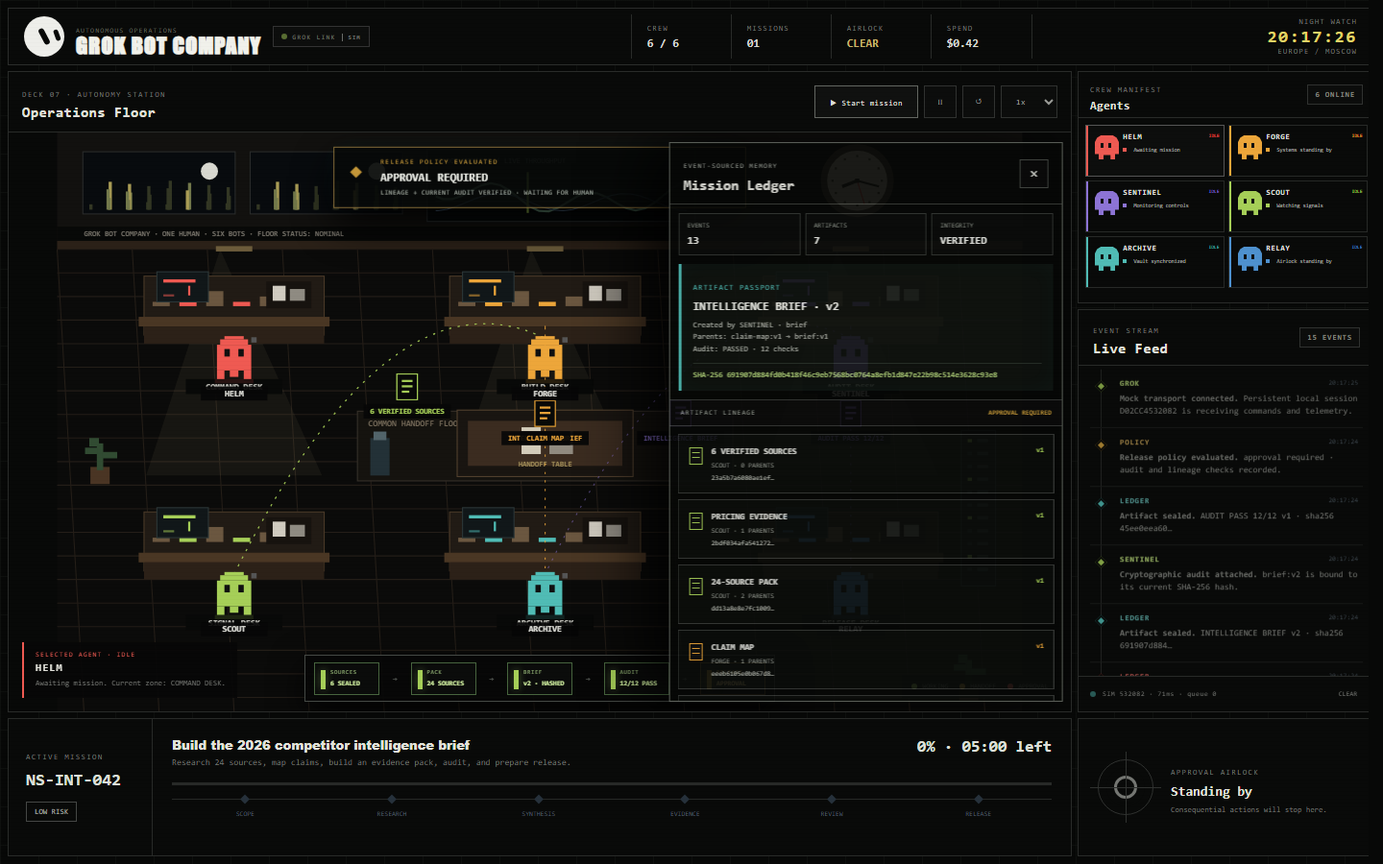
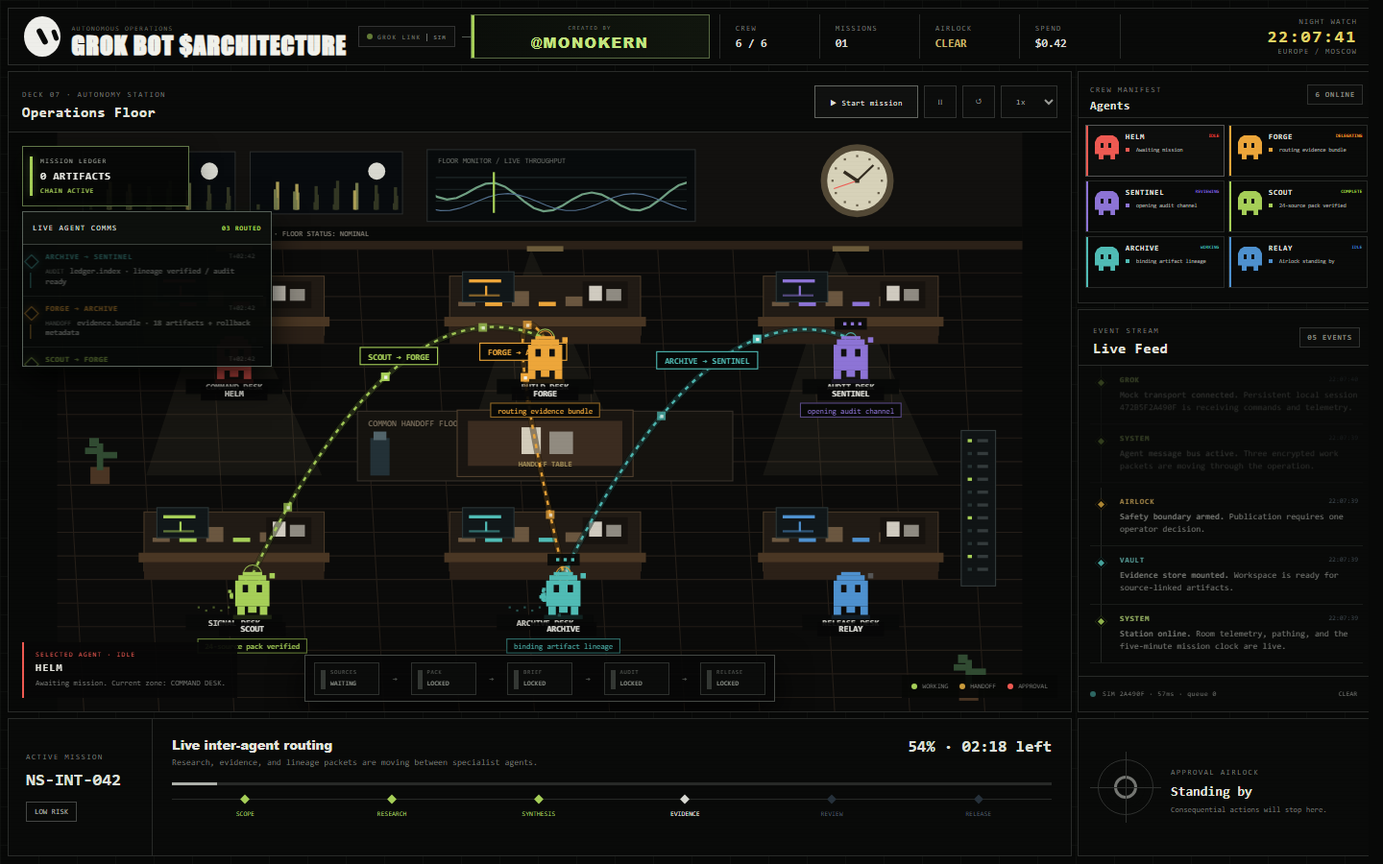
added live agent comms and creator branding

diff --git a/app.js b/app.js
@@ -3,8 +3,8 @@
 const $=s=>document.querySelector(s), canvas=$("#stationCanvas"), ctx=canvas.getContext("2d");
 const C={helm:"#ef5a52",forge:"#eda63a",sentinel:"#8d74d6",scout:"#a6cf58",archive:"#50bcb5",relay:"#4e91cf",green:"#a6cf58",amber:"#c99b3b",red:"#ef5a52",cyan:"#50bcb5",muted:"#747474"};
 const bridge=window.grokBot||null;
-const ledger=window.missionLedger||null,artifactPackets=[];
-let selectedArtifactId=null,ledgerToastTimer=null;
+const ledger=window.missionLedger||null,artifactPackets=[],commSignals=[];
+let selectedArtifactId=null,ledgerToastTimer=null,commSequence=0;
 const zones=[
  {id:"bridge",name:"COMMAND DESK",x:65,y:115,w:200,h:125,color:C.helm,type:"bridge"},
  {id:"build",name:"BUILD DESK",x:350,y:115,w:210,h:125,color:C.forge,type:"build"},
@@ -27,22 +27,22 @@ const state={running:false,paused:false,approval:false,complete:false,rejected:f
 const stages=["scope","research","synthesis","evidence","review","release"];
 const timeline=[
  {at:1000,run(){event("helm","Mission opened","NS-INT-042 received: produce a decision-ready 2026 competitor brief.","cyan");agent("helm","working","breaking down request","bridge");stage("scope",1,"Scoping the intelligence mission","Helm is defining questions, owners, evidence rules, and the release boundary.")}},
- {at:12000,run(){event("helm","Work graph created","Five workstreams, 24-source target, and one approval gate assigned.","green");agent("helm","delegating","routing research scope","core");agent("scout","working","receiving research brief","core")}},
+ {at:12000,run(){event("helm","Work graph created","Five workstreams, 24-source target, and one approval gate assigned.","green");agent("helm","delegating","routing research scope","core");agent("scout","working","receiving research brief","core");sendComm("helm","scout","scope.route · 24-source target","route")}},
  {at:28000,run(){event("scout","Discovery started","Search plan expanded across product, hiring, pricing, and customer signals.","cyan");agent("helm","idle","watching dependency graph","lounge");agent("scout","working","reading source index","monitor");stage("research",9,"Research sweep in progress","Scout is collecting first-party sources and labeling confidence.")}},
  {at:47000,run(){event("scout","Source batch verified","Six primary links passed freshness and provenance checks.","green");agent("scout","working","sourced 6 links","library");state.artifacts=2;sealArtifact({baseId:"source-batch",type:"source_set",label:"6 VERIFIED SOURCES",createdBy:"scout",payload:{count:6,provenance:"first-party",freshness:"verified"}})}},
  {at:65000,run(){event("scout","Pricing evidence captured","Three plan changes and two packaging shifts added to the source ledger.","cyan");agent("scout","working","reading pricing pages","skill");state.artifacts=4;sealArtifact({baseId:"pricing-evidence",type:"evidence",label:"PRICING EVIDENCE",createdBy:"scout",parentIds:["source-batch"],payload:{planChanges:3,packagingShifts:2}})}},
- {at:84000,run(){event("scout","Research pack ready","24 sources collected; 17 claims marked high confidence.","green");agent("scout","delegating","handing off 24 sources","core");agent("forge","working","receiving source pack","core");stage("synthesis",28,"Evidence is moving to synthesis","Scout and Forge are transferring the verified research pack.");sealArtifact({baseId:"research-pack",type:"research_pack",label:"24-SOURCE PACK",createdBy:"scout",parentIds:["source-batch","pricing-evidence"],payload:{sources:24,highConfidenceClaims:17}})}},
+ {at:84000,run(){event("scout","Research pack ready","24 sources collected; 17 claims marked high confidence.","green");agent("scout","delegating","handing off 24 sources","core");agent("forge","working","receiving source pack","core");sendComm("scout","forge","research.pack · 24 sources / 17 verified claims","handoff");stage("synthesis",28,"Evidence is moving to synthesis","Scout and Forge are transferring the verified research pack.");sealArtifact({baseId:"research-pack",type:"research_pack",label:"24-SOURCE PACK",createdBy:"scout",parentIds:["source-batch","pricing-evidence"],payload:{sources:24,highConfidenceClaims:17}})}},
  {at:103000,run(){event("forge","Claim map started","Entities, products, dates, and claims normalized into one schema.","cyan");agent("scout","complete","research pack delivered","skill");agent("forge","working","mapping 12 entities","build");sealArtifact({baseId:"claim-map",type:"claim_map",label:"CLAIM MAP",createdBy:"forge",parentIds:["research-pack"],payload:{entities:12,schema:"normalized"}})}},
  {at:124000,run(){event("forge","Contradiction detected","Two revenue claims conflict; both retained with confidence notes.","amber");agent("forge","working","resolving 2 conflicts","printer")}},
  {at:145000,run(){event("forge","Synthesis complete","Draft now contains 8 findings, 3 risks, and 5 strategic moves.","green");agent("forge","working","rendering 12-page brief","build");state.artifacts=9;sealArtifact({baseId:"brief",type:"brief",label:"INTELLIGENCE BRIEF",createdBy:"forge",parentIds:["claim-map"],payload:{pages:12,findings:8,risks:3,moves:5,revisionNote:"initial synthesis"}})}},
- {at:162000,run(){event("forge","Evidence bundle prepared","Brief, claim map, and source ledger packaged for persistence.","cyan");agent("forge","delegating","handing off evidence pack","core");agent("archive","working","receiving 18 artifacts","core");stage("evidence",54,"Evidence pack is being secured","Forge and Archive are transferring traceable mission artifacts.");sealArtifact({baseId:"evidence-bundle",type:"evidence_bundle",label:"EVIDENCE BUNDLE",createdBy:"forge",parentIds:["brief","research-pack"],payload:{artifacts:18,rollback:true}})}},
+ {at:162000,run(){event("forge","Evidence bundle prepared","Brief, claim map, and source ledger packaged for persistence.","cyan");agent("forge","delegating","handing off evidence pack","core");agent("archive","working","receiving 18 artifacts","core");sendComm("forge","archive","evidence.bundle · 18 artifacts + rollback metadata","handoff");stage("evidence",54,"Evidence pack is being secured","Forge and Archive are transferring traceable mission artifacts.");sealArtifact({baseId:"evidence-bundle",type:"evidence_bundle",label:"EVIDENCE BUNDLE",createdBy:"forge",parentIds:["brief","research-pack"],payload:{artifacts:18,rollback:true}})}},
  {at:181000,run(){event("archive","Index write started","Content hashes and citation backlinks are being generated.","cyan");agent("forge","complete","synthesis delivered","build");agent("archive","working","writing evidence index","server")}},
  {at:199000,run(){event("archive","Artifacts indexed","18 artifacts stored with source-level lineage and rollback metadata.","green");agent("archive","working","indexed 18 artifacts","vault");state.artifacts=18;sealArtifact({baseId:"evidence-index",type:"evidence_index",label:"EVIDENCE INDEX",createdBy:"archive",parentIds:["evidence-bundle"],payload:{indexed:18,lineage:"source-level",rollback:true}})}},
- {at:215000,run(){event("sentinel","Independent audit started","Citation coverage, claim support, and release rules loaded.","violet");agent("archive","idle","evidence vault synced","library");agent("sentinel","reviewing","cross-checking 24 citations","audit");stage("review",71,"Independent audit in progress","Sentinel is testing every material claim against the evidence ledger.")}},
+ {at:215000,run(){event("sentinel","Independent audit started","Citation coverage, claim support, and release rules loaded.","violet");agent("archive","idle","evidence vault synced","library");agent("sentinel","reviewing","cross-checking 24 citations","audit");sendComm("archive","sentinel","ledger.index · lineage verified / audit ready","audit");stage("review",71,"Independent audit in progress","Sentinel is testing every material claim against the evidence ledger.")}},
  {at:236000,run(){event("sentinel","Automated checks passed","12 of 12 structural and safety checks are green.","green");agent("sentinel","reviewing","running final checks","monitor");ledgerCall("auditArtifact","brief","sentinel",12)}},
  {at:252000,run(){event("sentinel","One warning resolved","A duplicate market-size claim was removed from the executive summary.","amber");agent("sentinel","reviewing","verifying corrected claim","audit");ledgerCall("reviseArtifact","brief",{revisionNote:"duplicate market-size claim removed",findings:7},"sentinel")}},
- {at:267000,run(){event("sentinel","Audit passed","All material claims have citations; no blocking issue remains.","green");agent("sentinel","complete","audit passed: 12/12","audit");agent("helm","working","assembling decision packet","core");agent("relay","working","receiving approved draft","core");stage("release",89,"Preparing the controlled release","Helm and Relay are assembling the final decision packet.");ledgerCall("auditArtifact","brief","sentinel",12);sealArtifact({baseId:"audit-receipt",type:"audit_receipt",label:"AUDIT PASS 12/12",createdBy:"sentinel",parentIds:["brief","evidence-index"],payload:{checks:12,verdict:"pass"}})}},
- {at:281000,run(){event("relay","Release packet staged","12-page brief and evidence links are ready at the approval boundary.","cyan");agent("helm","waiting approval","decision packet ready","lounge");agent("relay","waiting approval","awaiting final yes","airlock")}},
+ {at:267000,run(){event("sentinel","Audit passed","All material claims have citations; no blocking issue remains.","green");agent("sentinel","complete","audit passed: 12/12","audit");agent("helm","working","assembling decision packet","core");agent("relay","working","receiving approved draft","core");sendComm("sentinel","relay","audit.receipt · 12/12 pass / current hash","audit");stage("release",89,"Preparing the controlled release","Helm and Relay are assembling the final decision packet.");ledgerCall("auditArtifact","brief","sentinel",12);sealArtifact({baseId:"audit-receipt",type:"audit_receipt",label:"AUDIT PASS 12/12",createdBy:"sentinel",parentIds:["brief","evidence-index"],payload:{checks:12,verdict:"pass"}})}},
+ {at:281000,run(){event("relay","Release packet staged","12-page brief and evidence links are ready at the approval boundary.","cyan");agent("helm","waiting approval","decision packet ready","lounge");agent("relay","waiting approval","awaiting final yes","airlock");sendComm("relay","helm","release.packet · operator approval required","release")}},
  {at:290000,run(){event("relay","Human decision requested","Publication is paused at the Approval Airlock.","amber");stage("release",97,"Final approval required","The complete intelligence brief is waiting for one human decision.");ledgerCall("evaluatePolicy","publish","brief");requestApproval()}}
 ];
 function renderRoster(){
@@ -80,6 +80,14 @@ function event(actor,title,message,tone){
  el.innerHTML='<i></i><div><b>'+actor+'</b><time>'+time+'</time></div><p><strong>'+title+'.</strong> '+message+'</p>';
  $("#eventFeed").prepend(el);state.count++;$("#eventCount").textContent=String(state.count).padStart(2,"0")+" EVENTS";
  if(bridge)bridge.recordEvent({missionId:"NS-INT-042",actor,title,message,tone});
+}
+function resetComms(){
+ commSignals.length=0;commSequence=0;const items=$("#commItems");if(items)items.innerHTML='<article class="comm-empty"><i></i><p>Encrypted handoff channels standing by.</p></article>';if($("#commBus"))$("#commBus").textContent="BUS READY";
+}
+function sendComm(fromId,toId,message,channel="handoff",duration=11000){
+ const from=agents.find(a=>a.id===fromId),to=agents.find(a=>a.id===toId);if(!from||!to)return;
+ const signal={id:++commSequence,fromId,toId,message,channel,color:from.color,born:performance.now(),duration};commSignals.push(signal);if(commSignals.length>8)commSignals.shift();
+ const items=$("#commItems"),row=document.createElement("article"),stamp="T+"+formatDuration(state.elapsed);row.className="comm-message";row.style.setProperty("--comm",from.color);row.innerHTML='<div><strong>'+escapeHtml(from.name.toUpperCase()+" → "+to.name.toUpperCase())+'</strong><time>'+stamp+'</time></div><p><em>'+escapeHtml(channel)+'</em>'+escapeHtml(message)+'</p>';if(items.querySelector(".comm-empty"))items.innerHTML="";items.prepend(row);while(items.children.length>3)items.lastElementChild.remove();$("#commBus").textContent=String(commSequence).padStart(2,"0")+" ROUTED";burst(from.x,from.y,from.color,10);burst(to.x,to.y,to.color,6);
 }
 function ledgerCall(method,...args){if(!ledger||typeof ledger[method]!=="function")return Promise.resolve(null);return ledger[method](...args).catch(error=>{event("ledger","Ledger warning",error.message,"red");return null})}
 function sealArtifact(spec){return ledgerCall("createArtifact",spec)}
@@ -161,8 +169,8 @@ function resolve(ok){
 }
 function start(){
  if(state.complete||state.rejected||state.cursor>=timeline.length)reset(false);if(state.approval)return;
- if(state.elapsed===0){artifactPackets.length=0;selectedArtifactId=null;ledgerCall("startMission","NS-INT-042")}
- state.running=true;state.paused=false;$("#startBtn").textContent="● Mission running";event("system","System started","Grok Bot Company event loop is active.","cyan");
+ if(state.elapsed===0){artifactPackets.length=0;selectedArtifactId=null;resetComms();ledgerCall("startMission","NS-INT-042")}
+ state.running=true;state.paused=false;$("#startBtn").textContent="● Mission running";event("system","System started","Grok Bot $Architecture event loop is active.","cyan");
  if(bridge)bridge.startMission({id:"NS-INT-042",objective:"Build the 2026 competitor intelligence brief",agents:agents.map(a=>a.id)}).then(ack=>event("grok","Command acknowledged","mission.start accepted as #"+ack.sequence+" in "+ack.latency+"ms.","green")).catch(()=>event("grok","Transport warning","Mission continues locally; command acknowledgement was not received.","amber"));
 }
 function pause(){
@@ -170,7 +178,7 @@ function pause(){
  if(bridge)bridge.setMissionState(state.paused?"paused":"running");
 }
 function reset(announce=true){
- state.running=false;state.paused=false;state.approval=false;state.complete=false;state.rejected=false;state.elapsed=0;state.cursor=0;state.artifacts=0;state.spend=.42;agents=initial.map(a=>({...a}));
+ state.running=false;state.paused=false;state.approval=false;state.complete=false;state.rejected=false;state.elapsed=0;state.cursor=0;state.artifacts=0;state.spend=.42;agents=initial.map(a=>({...a}));resetComms();
  $("#approvalIdle").hidden=false;$("#approvalRequest").hidden=true;$("#airlockMetric").textContent="CLEAR";$("#airlockMetric").style.color="";$("#spendMetric").textContent="$0.42";$("#riskBadge").textContent="LOW RISK";$("#riskBadge").style.color="";$("#startBtn").textContent="▶ Start mission";$("#pauseBtn").textContent="Ⅱ";
  stage(null,0,"Build the 2026 competitor intelligence brief","Research 24 sources, map claims, build an evidence pack, audit, and prepare release.");document.querySelectorAll("#stages span").forEach(n=>n.classList.remove("active","done"));renderRoster();select("helm");if(announce)event("system","Mission reset","All agents returned to their stations; the five-minute clock is ready.","amber");
  if(bridge&&announce)bridge.resetMission();
@@ -211,7 +219,7 @@ function room(){
  ctx.fillStyle="#12110f";ctx.fillRect(0,0,900,108);ctx.fillStyle="#2b2118";ctx.fillRect(0,101,900,8);
  ctx.strokeStyle="#241e18";ctx.lineWidth=1;for(let y=109;y<540;y+=22){ctx.beginPath();ctx.moveTo(0,y);ctx.lineTo(900,y);ctx.stroke()}for(let x=0;x<900;x+=70){ctx.beginPath();ctx.moveTo(x,109);ctx.lineTo(x+25,540);ctx.stroke()}
  drawWindow(24,18,142,58);drawWindow(180,18,142,58);drawWallMonitor(345,16,250,67);drawClock(746,45);
- ctx.fillStyle="#080908";ctx.fillRect(0,88,900,13);ctx.fillStyle="#77736a";ctx.font="bold 7px monospace";ctx.fillText("GROK BOT COMPANY · ONE HUMAN · SIX BOTS · FLOOR STATUS: NOMINAL",25,97);
+ ctx.fillStyle="#080908";ctx.fillRect(0,88,900,13);ctx.fillStyle="#77736a";ctx.font="bold 7px monospace";ctx.fillText("GROK BOT $ARCHITECTURE · ONE HUMAN · SIX BOTS · FLOOR STATUS: NOMINAL",25,97);
  [165,455,740].forEach(x=>{ctx.fillStyle="#d7c28b10";ctx.beginPath();ctx.moveTo(x-13,109);ctx.lineTo(x-82,320);ctx.lineTo(x+82,320);ctx.closePath();ctx.fill();ctx.fillStyle="#6c5c3b";ctx.fillRect(x-17,106,34,5)});
  ctx.fillStyle="#15130f";ctx.fillRect(280,260,350,65);ctx.strokeStyle="#37312a";ctx.strokeRect(280,260,350,65);
  ctx.fillStyle="#746958";ctx.font="bold 8px monospace";ctx.fillText("COMMON HANDOFF FLOOR",290,274);
@@ -252,6 +260,16 @@ function drawAgent(a){
  ctx.textAlign="left";
 }
 function particles(){state.particles.forEach(p=>{ctx.globalAlpha=Math.max(0,p.life);ctx.fillStyle=p.color;ctx.fillRect(p.x,p.y,3,3);p.x+=p.dx;p.y+=p.dy;p.life-=.025});ctx.globalAlpha=1;state.particles=state.particles.filter(p=>p.life>0)}
+function drawCommSignals(){
+ const now=performance.now(),quad=(a,b,c,t)=>(1-t)*(1-t)*a+2*(1-t)*t*b+t*t*c;
+ for(let i=commSignals.length-1;i>=0;i--){const signal=commSignals[i],age=(now-signal.born)/signal.duration;if(age>=1){commSignals.splice(i,1);continue}const from=agents.find(a=>a.id===signal.fromId),to=agents.find(a=>a.id===signal.toId);if(!from||!to)continue;
+  const x1=from.x,y1=from.y-18,x2=to.x,y2=to.y-18,vertical=Math.abs(x2-x1)<120,cx=(x1+x2)/2+(vertical?(signal.id%2?58:-58):0),cy=Math.max(62,Math.min(y1,y2)-52-signal.id%3*8),alpha=Math.min(1,age/.08,Math.max(0,(1-age)/.18));
+  ctx.globalAlpha=alpha*.42;ctx.strokeStyle="#000";ctx.lineWidth=6;ctx.beginPath();ctx.moveTo(x1,y1);ctx.quadraticCurveTo(cx,cy,x2,y2);ctx.stroke();ctx.globalAlpha=alpha*.18;ctx.strokeStyle=signal.color;ctx.lineWidth=5;ctx.beginPath();ctx.moveTo(x1,y1);ctx.quadraticCurveTo(cx,cy,x2,y2);ctx.stroke();ctx.globalAlpha=alpha*.95;ctx.lineWidth=2.2;ctx.setLineDash([4,5]);ctx.beginPath();ctx.moveTo(x1,y1);ctx.quadraticCurveTo(cx,cy,x2,y2);ctx.stroke();ctx.setLineDash([]);
+  for(let p=0;p<3;p++){const u=(now/1850+p/3+signal.id*.11)%1,px=quad(x1,cx,x2,u),py=quad(y1,cy,y2,u);ctx.globalAlpha=alpha*(p?0.72:1);ctx.fillStyle=signal.color;ctx.fillRect(px-4,py-4,8,8);ctx.fillStyle="#f0f1eb";ctx.fillRect(px-1,py-1,3,3)}
+  const pulse=7+Math.sin(now/180+signal.id)*2;ctx.globalAlpha=alpha*.85;ctx.strokeStyle=signal.color;ctx.lineWidth=1;ctx.beginPath();ctx.arc(x1,y1,pulse,0,Math.PI*2);ctx.stroke();ctx.beginPath();ctx.arc(x2,y2,pulse,0,Math.PI*2);ctx.stroke();
+  const lx=quad(x1,cx,x2,.5),ly=quad(y1,cy,y2,.5)-7,label=(from.name+" → "+to.name).toUpperCase();ctx.font="bold 8px monospace";const width=Math.min(124,ctx.measureText(label).width+16);ctx.globalAlpha=alpha;ctx.fillStyle="#070807f4";ctx.fillRect(lx-width/2,ly-10,width,17);ctx.strokeStyle=signal.color;ctx.strokeRect(lx-width/2+.5,ly-9.5,width-1,16);ctx.fillStyle=signal.color;ctx.textAlign="center";ctx.fillText(label,lx,ly+2);ctx.textAlign="left";ctx.globalAlpha=1;
+ }
+}
 function drawArtifactPackets(){
  const now=performance.now();
  for(let i=artifactPackets.length-1;i>=0;i--){const packet=artifactPackets[i],t=Math.min(1,(now-packet.born)/packet.duration),ease=t<.5?2*t*t:1-Math.pow(-2*t+2,2)/2,x=packet.x1+(packet.x2-packet.x1)*ease,y=packet.y1+(packet.y2-packet.y1)*ease-Math.sin(t*Math.PI)*52,alpha=t>.82?(1-t)/.18:1;
@@ -270,7 +288,7 @@ function interactions(){
  agents.forEach(a=>{if(a.state==="working"||a.state==="reviewing"){ctx.fillStyle="#080908e8";ctx.fillRect(a.x-15,a.y-37,30,11);ctx.fillStyle=a.color;for(let i=0;i<3;i++)ctx.fillRect(a.x-7+i*7,a.y-33,3,3)}});
  for(let i=0;i<agents.length;i++)for(let j=i+1;j<agents.length;j++){const a=agents[i],b=agents[j],d=Math.hypot(a.x-b.x,a.y-b.y);if(d<122&&(a.zone==="core"||b.zone==="core")){const x=(a.x+b.x)/2,y=Math.min(a.y,b.y)-43,t=(performance.now()/1100)%1,px=a.x+(b.x-a.x)*t,py=a.y-15+(b.y-a.y)*t;ctx.strokeStyle="#8b8069";ctx.setLineDash([2,4]);ctx.beginPath();ctx.moveTo(a.x,a.y-15);ctx.lineTo(b.x,b.y-15);ctx.stroke();ctx.setLineDash([]);ctx.fillStyle="#e0cf8a";ctx.fillRect(px-3,py-3,6,6);ctx.fillStyle="#080908";ctx.fillRect(x-31,y,62,13);ctx.fillStyle="#d2c598";ctx.font="bold 7px monospace";ctx.textAlign="center";ctx.fillText("LIVE HANDOFF",x,y+9);ctx.textAlign="left"}}
 }
-function draw(){const w=canvas.clientWidth,h=canvas.clientHeight;ctx.clearRect(0,0,w,h);const t=transform();ctx.save();ctx.translate(t.ox,t.oy);ctx.scale(t.s,t.s);room();furniture();particles();drawArtifactPackets();agents.forEach(drawAgent);interactions();ctx.restore()}
+function draw(){const w=canvas.clientWidth,h=canvas.clientHeight;ctx.clearRect(0,0,w,h);const t=transform();ctx.save();ctx.translate(t.ox,t.oy);ctx.scale(t.s,t.s);room();furniture();particles();drawCommSignals();drawArtifactPackets();agents.forEach(drawAgent);interactions();ctx.restore()}
 function tick(now){const dt=Math.min(40,now-state.last);state.last=now;if(state.running&&!state.approval){state.elapsed=Math.min(state.duration,state.elapsed+dt*state.speed);while(state.cursor<timeline.length&&state.elapsed>=timeline[state.cursor].at)timeline[state.cursor++].run();if(!state.approval){const progress=Math.min(96,Math.floor(state.elapsed/state.duration*100));$("#progressBar").style.width=progress+"%";$("#progressLabel").textContent=progress+"% · "+formatDuration(state.duration-state.elapsed)+" left"}state.spend=Math.min(4.07,.42+state.elapsed/1000*.0122);$("#spendMetric").textContent="$"+state.spend.toFixed(2)}ambient(now);move(dt);draw();requestAnimationFrame(tick)}
 function canvasClick(e){const r=canvas.getBoundingClientRect(),t=transform(),x=(e.clientX-r.left-t.ox)/t.s,y=(e.clientY-r.top-t.oy)/t.s,a=agents.find(q=>Math.hypot(q.x-x,q.y-y)<30);if(a)return select(a.id);const z=zones.find(q=>x>=q.x&&x<=q.x+q.w&&y>=q.y&&y<=q.y+q.h);if(z){const box=$("#selection"),crew=agents.filter(a=>a.zone===z.id).length;box.querySelector("span").textContent="STATION ZONE";box.querySelector("b").textContent=z.name;box.querySelector("p").textContent=crew+" crew assigned · "+z.type.toUpperCase()+" subsystem online.";box.style.borderColor=z.color;box.querySelector("span").style.color=z.color}}
 function clock(){$("#clock").textContent=new Intl.DateTimeFormat("en-GB",{timeZone:"Europe/Moscow",hour:"2-digit",minute:"2-digit",second:"2-digit",hour12:false}).format(new Date())}
@@ -299,6 +317,7 @@ event("system","Station online","Room telemetry, pathing, and the five-minute mi
 clock();setInterval(clock,1000);requestAnimationFrame(tick);
 const autoplay=new URLSearchParams(location.search).get("autoplay");
 if(autoplay==="ledger")setTimeout(ledgerShowcase,250);
+else if(autoplay==="comms")setTimeout(()=>{state.elapsed=162000;agent("scout","complete","24-source pack verified","skill");agent("forge","delegating","routing evidence bundle","build");agent("archive","working","binding artifact lineage","vault");agent("sentinel","reviewing","opening audit channel","audit");sendComm("scout","forge","research.pack · 24 sources / 17 verified claims","handoff",16000);sendComm("forge","archive","evidence.bundle · 18 artifacts + rollback metadata","handoff",16000);sendComm("archive","sentinel","ledger.index · lineage verified / audit ready","audit",16000);event("system","Agent message bus active","Three encrypted work packets are moving through the operation.","green");stage("evidence",54,"Live inter-agent routing","Research, evidence, and lineage packets are moving between specialist agents.")},250);
 else if(autoplay==="handoff")setTimeout(()=>{state.elapsed=84000;agent("scout","delegating","handing off 24 sources","core");agent("forge","working","receiving source pack","core");const scout=agents.find(x=>x.id==="scout"),forge=agents.find(x=>x.id==="forge");Object.assign(scout,{x:510,y:300,tx:510,ty:300,path:[]});Object.assign(forge,{x:400,y:292,tx:400,ty:292,path:[]});event("scout","Live handoff","Scout and Forge are transferring the verified source pack.","amber");stage("synthesis",28,"Live evidence handoff","Two agents are exchanging 24 verified sources at the common table.")},250);
 else if(autoplay==="approval")setTimeout(()=>{state.elapsed=290000;event("relay","Human decision requested","The audited brief is paused at the release boundary.","amber");agent("sentinel","complete","audit passed: 12/12","audit");agent("relay","waiting approval","awaiting final yes","airlock");agent("helm","waiting approval","decision packet ready","lounge");stage("release",97,"Final approval required","The complete intelligence brief is waiting for one human decision.");requestApproval()},250);
 else if(autoplay){state.speed=50;$("#speed").value="10";setTimeout(start,250)}

diff --git a/theme-muted.css b/theme-muted.css
@@ -1,8 +1,9 @@
 :root{--bg:#070807;--panel:#0a0b0a;--line:#282a28;--text:#e3e3dc;--muted:#71736f;--cyan:#50bcb5;--green:#a6cf58;--amber:#c99b3b;--orange:#eda63a;--red:#ef5a52;--violet:#8d74d6}
 body{background-color:#070807;background-image:linear-gradient(#15171588 1px,transparent 1px),linear-gradient(90deg,#15171588 1px,transparent 1px);background-size:40px 40px}
 .scanlines{opacity:.055;mix-blend-mode:normal}.app{padding:8px}
-.topbar{min-height:60px;border-color:#2b2d2b;background:#090a09;box-shadow:none;clip-path:none}
-.brand{gap:12px;padding:7px 16px}.brand h1{font-family:Impact,"Arial Black",sans-serif;font-size:22px;letter-spacing:.055em;color:#f1f1eb;line-height:.9}.brand span{color:#60635f;font-size:7px}
+.topbar{min-height:60px;grid-template-columns:minmax(480px,1fr) clamp(210px,18vw,260px) auto minmax(180px,.55fr);border-color:#2b2d2b;background:#090a09;box-shadow:none;clip-path:none}
+.brand{gap:12px;padding:7px 16px}.brand h1{font-family:Impact,"Arial Black",sans-serif;font-size:25px;letter-spacing:.045em;color:#f1f1eb;line-height:.9;white-space:nowrap}.brand span{color:#60635f;font-size:7px}
+.creator-tag{position:relative;align-self:stretch;min-width:0;margin:6px 10px 6px 0;border:1px solid #596b43;background:linear-gradient(90deg,#0b0e0a,#11160e);color:#c4e681;display:flex;flex-direction:column;align-items:center;justify-content:center;text-decoration:none;white-space:nowrap;transition:.18s;box-shadow:inset 3px 0 #a6cf58}.creator-tag:before{content:"";position:absolute;left:-10px;top:50%;width:9px;height:1px;background:#555b54}.creator-tag small{color:#747c70;font-size:6px;letter-spacing:.2em}.creator-tag strong{margin-top:4px;font-family:"Arial Black","Cascadia Mono",monospace;font-size:15px;line-height:1;letter-spacing:.09em}.creator-tag:hover{border-color:#8cac5d;background:#151c11;color:#e3f7b8;box-shadow:inset 4px 0 #b7e46b,0 0 20px #a6cf5814}
 .brand-mark{width:42px;height:42px;border:0;border-radius:50%;transform:none;background:#eeeeea;box-shadow:none}.brand-mark i{position:relative;width:6px;height:18px;border-radius:4px;background:#080908;box-shadow:none;transform:rotate(-28deg)}.brand-mark i:after{content:"";position:absolute;left:13px;top:8px;width:5px;height:12px;border-radius:4px;background:#080908;transform:rotate(8deg)}
 .live{border-color:#333;color:#b9bbb6;background:#0d0e0d}.live i{background:#ef5a52;box-shadow:none}.metrics{border-color:#292b29}.metrics>div{border-color:#292b29}.metrics b{color:#d9dad5}.metrics>div:nth-child(3) b{color:#c9b76c}.clock b{color:#e2d467}
 .grid{margin-top:6px;gap:6px;grid-template-columns:246px minmax(550px,1fr) 304px}.panel{border-color:#292b29;background:#090a09f7;box-shadow:none}.panel:after{display:none}.panel-head,.station-head{border-color:#292b29}.panel-head>b{border-color:#303230;color:#82847f;background:#0c0d0c}
@@ -28,7 +29,8 @@ dialog{border-color:#333;background:#0a0b0a;box-shadow:none}
  .roster .agent-head b{font-size:8px}.roster .agent-head span{font-size:5px}.roster .agent-role{display:none}.roster .agent-task{margin-top:6px;font-size:5.5px;white-space:nowrap;overflow:hidden;text-overflow:ellipsis}
  .station-head{min-height:58px}.panel-head{height:58px}.canvas-wrap{min-height:560px}
 }
-@media(min-width:901px) and (max-width:1180px){.grid{grid-template-columns:minmax(650px,1fr) 275px}.metrics{display:none}}
+@media(min-width:901px) and (max-width:1180px){.topbar{grid-template-columns:minmax(430px,1fr) minmax(190px,240px) auto}.grid{grid-template-columns:minmax(650px,1fr) 275px}.metrics{display:none}}
+@media(min-width:1181px) and (max-width:1350px){.topbar{grid-template-columns:minmax(440px,1fr) 160px auto minmax(160px,.4fr)}.creator-tag strong{font-size:12px}.creator-tag small{font-size:5px}}
 
 /* VIEWPORT-LOCKED RESPONSIVE SHELL */
 @media(min-width:901px){
@@ -42,7 +44,7 @@ dialog{border-color:#333;background:#0a0b0a;box-shadow:none}
  .controls .primary{width:108px;padding-inline:7px;white-space:nowrap}
 }
 @media(min-width:901px) and (max-height:820px){
- .topbar{flex-basis:52px;height:52px;min-height:52px}.brand-mark{width:36px;height:36px}.brand h1{font-size:18px}.clock b{font-size:15px}
+ .topbar{flex-basis:52px;height:52px;min-height:52px}.brand-mark{width:36px;height:36px}.brand h1{font-size:20px}.clock b{font-size:15px}
  .grid{grid-template-rows:158px minmax(0,1fr) 112px}
  .roster .agent-list{grid-template-columns:repeat(3,minmax(0,1fr));grid-template-rows:repeat(2,44px);gap:3px;padding:5px}
  .roster .agent-card{min-height:44px;padding:6px 4px 4px 33px}.roster .avatar{left:6px;top:10px;width:20px;height:22px}.roster .avatar:after{left:5px;top:7px;width:3px;height:5px;box-shadow:7px 0 #101110}
@@ -56,12 +58,15 @@ dialog{border-color:#333;background:#0a0b0a;box-shadow:none}
  .grid{width:100%;min-height:0}
  #stationCanvas{max-width:100%}
 }
+@media(max-width:780px){.topbar{grid-template-columns:minmax(0,1fr) 150px}.creator-tag{margin:5px 6px 5px 0}.creator-tag strong{font-size:11px}}
+@media(max-width:600px){.topbar{grid-template-columns:minmax(0,1fr) 96px}.brand{gap:7px;padding-inline:7px}.brand-mark{width:30px;height:30px}.brand h1{font-size:15px;letter-spacing:.02em}.brand span{font-size:5px}.creator-tag{margin:5px 5px 5px 0}.creator-tag small{font-size:4px}.creator-tag strong{margin-top:3px;font-size:8px}.brand .live{display:none}}
 
 /* GROK BOT TRANSPORT */
 .live{white-space:nowrap}.live[data-mode=mock]:after{content:"SIM";margin-left:6px;padding-left:6px;border-left:1px solid currentColor;font-size:6px;opacity:.55}.live.online i{background:var(--green)}.live.connecting i{background:var(--amber)}.live.offline{color:var(--red)}.live.offline i{background:var(--red)}
 .feed-foot span{min-width:0}.feed-foot span i{flex:0 0 auto}.feed-foot span em{overflow:hidden;text-overflow:ellipsis;white-space:nowrap;font-style:normal}
 
 /* MISSION LEDGER */
+.comm-panel{position:absolute;z-index:4;left:14px;top:82px;width:260px;overflow:hidden;border:1px solid #59635b;background:#070908f5;box-shadow:0 15px 34px #000d,0 0 22px #77ef9a0a}.comm-panel header{height:34px;padding:0 10px;border-bottom:1px solid #3a403b;background:#0d100d;display:flex;align-items:center;justify-content:space-between}.comm-panel header span{color:#d0d4cd;font-size:8px;letter-spacing:.14em}.comm-panel header b{color:var(--green);font-size:7px;letter-spacing:.1em}.comm-items{max-height:126px;overflow:hidden}.comm-empty{height:46px;padding:9px 10px;display:flex;align-items:center;gap:9px;color:#8e958c}.comm-empty i{width:7px;height:7px;background:#697169;transform:rotate(45deg)}.comm-empty p{font-size:8px;line-height:1.35}.comm-message{position:relative;min-height:53px;padding:8px 9px 8px 31px;border-bottom:1px solid #303630;background:#0a0d0a;animation:commIn .28s ease-out}.comm-message:before{content:"";position:absolute;left:11px;top:12px;width:9px;height:9px;border:1px solid var(--comm);background:#0b0d0b;transform:rotate(45deg);box-shadow:0 0 9px color-mix(in srgb,var(--comm) 35%,transparent)}.comm-message:after{content:"";position:absolute;left:15px;top:29px;bottom:8px;width:1px;background:var(--comm)}.comm-message div{display:flex;justify-content:space-between;gap:8px}.comm-message strong{color:var(--comm);font-size:8px;letter-spacing:.08em}.comm-message time{color:#838981;font-size:7px}.comm-message p{margin-top:6px;color:#d0d3cd;font-size:8px;line-height:1.35}.comm-message em{display:inline-block;margin-right:6px;color:#949b92;font-size:7px;font-style:normal;text-transform:uppercase}
 .ledger-mini{position:absolute;z-index:4;left:14px;top:14px;width:174px;padding:11px 12px 11px 18px;border:1px solid #63794a;background:#070807f2;color:#e8e9e3;text-align:left;cursor:pointer;box-shadow:0 12px 30px #000b,0 0 18px #a6d86b0b}.ledger-mini:before{content:"";position:absolute;left:7px;top:10px;bottom:10px;width:3px;background:var(--green);box-shadow:0 0 9px #a6d86b66}.ledger-mini span,.ledger-mini b,.ledger-mini em{display:block}.ledger-mini span{color:#9a9f96;font-size:7px;letter-spacing:.16em}.ledger-mini b{margin-top:5px;font-size:11px;letter-spacing:.06em}.ledger-mini em{margin-top:5px;color:var(--green);font-size:7px;font-style:normal;letter-spacing:.12em}.ledger-mini.stale{border-color:#80652d}.ledger-mini.stale:before{background:var(--amber)}.ledger-mini.stale em{color:var(--amber)}.ledger-mini.compromised{border-color:#793b3b}.ledger-mini.compromised:before{background:var(--red)}.ledger-mini.compromised em{color:var(--red)}
 .ledger-drawer{position:absolute;z-index:8;inset:10px 10px 10px auto;width:min(410px,calc(100% - 20px));overflow:hidden;border:1px solid #626760;background:#070807;box-shadow:-24px 0 64px #000e,0 0 0 1px #a8c86a0b inset;animation:ledgerIn .22s ease-out}.ledger-drawer header{height:64px;padding:11px 14px;border-bottom:1px solid #3b3e3a;display:flex;align-items:center;justify-content:space-between}.ledger-drawer header span,.ledger-section-title span{color:#959a92;font-size:7px;letter-spacing:.15em}.ledger-drawer header h2{margin-top:5px;font-size:15px}.ledger-drawer header button{width:30px;height:30px;border:1px solid #454944;background:#0b0c0b;color:#d2d4ce;cursor:pointer}
 .ledger-summary{display:grid;grid-template-columns:repeat(3,1fr);gap:5px;padding:9px}.ledger-summary span{padding:8px;border:1px solid #343734;background:#0b0d0b;color:#858a82;font-size:7px}.ledger-summary b{display:block;margin-top:5px;color:#f0f1ec;font-size:11px}.ledger-detail{margin:0 9px 9px;padding:12px;border-left:3px solid var(--cyan);background:#101310;box-shadow:0 0 22px #4ee7e208 inset}.ledger-detail span{color:var(--cyan);font-size:8px;letter-spacing:.12em}.ledger-detail b{display:block;margin-top:6px;color:#f2f3ee;font-size:12px}.ledger-detail p{margin-top:7px;color:#afb3ab;font-size:8px;line-height:1.55}.ledger-detail code{display:block;margin-top:8px;padding-top:7px;border-top:1px solid #29312a;color:#b9dc80;font-size:8px;word-break:break-all}.ledger-section-title{padding:9px 11px;border-block:1px solid #363936;background:#0b0c0b;display:flex;justify-content:space-between}.ledger-section-title b{color:#949991;font-size:7px}.ledger-section-title b.pass{color:var(--green)}.ledger-section-title b.blocked{color:var(--red)}.ledger-section-title b.waiting{color:var(--amber)}
@@ -70,7 +75,7 @@ dialog{border-color:#333;background:#0a0b0a;box-shadow:none}
 .artifact-flow{position:absolute;z-index:4;left:50%;bottom:10px;transform:translateX(-50%);min-width:490px;height:49px;padding:6px 9px;border:1px solid #454945;background:#070807ed;box-shadow:0 12px 35px #000c;display:flex;align-items:center;justify-content:space-between;pointer-events:none}.artifact-flow>span{position:relative;min-width:68px;height:34px;padding:5px 5px 4px 16px;border:1px solid #2e312e;background:#0b0c0b;color:#626661}.artifact-flow>span i{position:absolute;left:6px;top:7px;width:5px;height:20px;background:#343834}.artifact-flow>span small,.artifact-flow>span b{display:block}.artifact-flow>span small{font-size:6px;letter-spacing:.11em}.artifact-flow>span b{margin-top:4px;color:#858a82;font-size:7px}.artifact-flow>em{color:#565a55;font-size:9px;font-style:normal}.artifact-flow>span.done{border-color:#47643e;color:#8fae72}.artifact-flow>span.done i{background:var(--green);box-shadow:0 0 9px #a6d86b66}.artifact-flow>span.done b{color:#c8e69a}.artifact-flow>span.active{border-color:#536d70;color:#72bbb5;animation:flowPulse 1.35s steps(2,end) infinite}.artifact-flow>span.active i{background:var(--cyan);box-shadow:0 0 11px #4ee7e288}.artifact-flow>span.active b{color:#a8e2dc}.artifact-flow>span.stale{border-color:#8a4040;color:#d26969}.artifact-flow>span.stale i{background:var(--red);box-shadow:0 0 11px #e55b5b88}.artifact-flow>span.stale b{color:#f08282}.artifact-flow>span.waiting{border-color:#86692f;color:#d8ad53}.artifact-flow>span.waiting i{background:var(--amber);box-shadow:0 0 11px #e4b65088}.artifact-flow>span.waiting b{color:#f0cd82}
 .ledger-toast{position:absolute;z-index:7;left:50%;top:15px;transform:translateX(-50%);width:min(430px,calc(100% - 360px));min-width:345px;padding:11px 14px 11px 48px;border:1px solid #58766e;background:#080b0af2;box-shadow:0 16px 45px #000e,0 0 24px #4ee7e212;animation:ledgerToastIn .28s cubic-bezier(.18,.9,.2,1)}.ledger-toast:before{content:"◆";position:absolute;left:15px;top:15px;color:var(--cyan);font-size:18px}.ledger-toast span,.ledger-toast b,.ledger-toast em{display:block}.ledger-toast span{color:var(--cyan);font-size:7px;letter-spacing:.18em}.ledger-toast b{margin-top:5px;color:#f2f4ed;font-size:12px}.ledger-toast em{margin-top:5px;color:#9ca49b;font-size:7px;font-style:normal;letter-spacing:.06em}.ledger-toast.stale{border-color:#884747;box-shadow:0 16px 45px #000e,0 0 28px #e55b5b18}.ledger-toast.stale:before,.ledger-toast.stale span{color:var(--red)}.ledger-toast.pass{border-color:#66844a;box-shadow:0 16px 45px #000e,0 0 28px #a6d86b18}.ledger-toast.pass:before,.ledger-toast.pass span{color:var(--green)}.ledger-toast.waiting{border-color:#876d39}.ledger-toast.waiting:before,.ledger-toast.waiting span{color:var(--amber)}
 @keyframes ledgerIn{from{opacity:0;transform:translateX(18px)}}
-@keyframes ledgerToastIn{from{opacity:0;transform:translate(-50%,-14px) scale(.96)}}@keyframes flowPulse{50%{filter:brightness(1.35)}}
-@media(max-width:1180px){.artifact-flow{min-width:400px}.artifact-flow>span{min-width:55px;padding-left:13px}.artifact-flow>span i{left:5px}.artifact-flow>span small{display:none}.ledger-toast{width:min(390px,calc(100% - 300px))}}
-@media(max-width:900px){.artifact-flow{display:none}.ledger-toast{left:auto;right:8px;top:8px;transform:none;width:min(360px,calc(100% - 155px));min-width:0}.ledger-toast[hidden]{display:none}@keyframes ledgerToastIn{from{opacity:0;transform:translateY(-12px) scale(.96)}}}
-@media(max-width:780px){.ledger-mini{left:8px;top:8px;width:132px}.ledger-drawer{inset:6px;width:calc(100% - 12px)}.ledger-toast{display:none}}
+@keyframes ledgerToastIn{from{opacity:0;transform:translate(-50%,-14px) scale(.96)}}@keyframes flowPulse{50%{filter:brightness(1.35)}}@keyframes commIn{from{opacity:0;transform:translateX(-12px)}}
+@media(max-width:1180px){.comm-panel{width:225px}.artifact-flow{min-width:400px}.artifact-flow>span{min-width:55px;padding-left:13px}.artifact-flow>span i{left:5px}.artifact-flow>span small{display:none}.ledger-toast{width:min(390px,calc(100% - 300px))}}
+@media(max-width:900px){.comm-panel{left:8px;top:76px;width:200px}.artifact-flow{display:none}.ledger-toast{left:auto;right:8px;top:8px;transform:none;width:min(360px,calc(100% - 155px));min-width:0}.ledger-toast[hidden]{display:none}@keyframes ledgerToastIn{from{opacity:0;transform:translateY(-12px) scale(.96)}}}
+@media(max-width:780px){.comm-panel{display:none}.ledger-mini{left:8px;top:8px;width:132px}.ledger-drawer{inset:6px;width:calc(100% - 12px)}.ledger-toast{display:none}}

diff --git a/index.html b/index.html
@@ -3,7 +3,7 @@
 <head>
   <meta charset=UTF-8>
   <meta name=viewport content=width=device-width,initial-scale=1>
-  <title>Grok Bot Company — Autonomous Operations</title>
+  <title>Grok Bot $Architecture — Autonomous Operations</title>
   <link rel=stylesheet href=styles.css>
   <link rel=stylesheet href=theme-muted.css>
 </head>
@@ -13,9 +13,10 @@
     <header class=topbar>
       <div class=brand>
         <div class=brand-mark><i></i></div>
-        <div><span>AUTONOMOUS OPERATIONS</span><h1>GROK BOT COMPANY</h1></div>
+        <div><span>AUTONOMOUS OPERATIONS</span><h1>GROK BOT $ARCHITECTURE</h1></div>
         <b id=connectionBadge class="live connecting" data-mode=mock><i></i><span id=connectionText>LINKING</span></b>
       </div>
+      <a class="creator-tag" href="https://x.com/monokern" target="_blank" rel="noreferrer"><small>CREATED BY</small><strong>@MONOKERN</strong></a>
       <div class=metrics>
         <div><span>CREW</span><b>6 / 6</b></div>
         <div><span>MISSIONS</span><b>01</b></div>
@@ -49,6 +50,12 @@
           <button id="ledgerMini" class="ledger-mini" type="button">
             <span>MISSION LEDGER</span><b id="ledgerCount">0 ARTIFACTS</b><em id="ledgerIntegrity">CHAIN READY</em>
           </button>
+          <aside id="commPanel" class="comm-panel">
+            <header><span>LIVE AGENT COMMS</span><b id="commBus">BUS READY</b></header>
+            <div id="commItems" class="comm-items">
+              <article class="comm-empty"><i></i><p>Encrypted handoff channels standing by.</p></article>
+            </div>
+          </aside>
           <aside id="ledgerDrawer" class="ledger-drawer" hidden>
             <header><div><span>EVENT-SOURCED MEMORY</span><h2>Mission Ledger</h2></div><button id="closeLedger" type="button">×</button></header>
             <div class="ledger-summary">

diff --git a/README.md b/README.md
@@ -1,19 +1,20 @@
-# Grok Bot Architecture
+# Grok Bot $Architecture
 
 **Autonomous multi-agent operations interface for research, production, evidence control, review, and human-approved delivery.**
 
-![Grok Bot Company operations floor](preview.png)
+![Grok Bot $Architecture operations floor](preview.png)
 
-Grok Bot Company turns a team of specialist AI agents into a visible operating system. Instead of hiding agent work behind a chat window, it presents the entire workflow as a live operations floor: bots move between workstations, exchange artifacts, report progress, emit telemetry, and stop at an approval boundary before consequential actions.
+Grok Bot $Architecture turns a team of specialist AI agents into a visible operating system. Instead of hiding agent work behind a chat window, it presents the entire workflow as a live operations floor: bots move between workstations, exchange artifacts, report progress, emit telemetry, and stop at an approval boundary before consequential actions.
 
 The included mission, **NS-INT-042**, demonstrates a complete competitor-intelligence workflow. At normal speed it runs for approximately five minutes and processes 24 sources, creates a structured evidence pack, performs an independent audit, and prepares a controlled release.
 
-> Grok Bot Company is an independent interface concept and is not an official xAI product.
+> Grok Bot $Architecture is an independent interface concept and is not an official xAI product.
 
 ## What the interface provides
 
 - A continuous pixel-art operations room with six visible specialist bots.
 - Live agent movement through collision-aware office routes.
+- Live Agent Comms with routed message cards, animated channels, and moving work packets between specialists.
 - Real-time task labels such as `reading pricing pages`, `sourced 6 links`, and `cross-checking 24 citations`.
 - Animated wall telemetry, workstation displays, city lights, and a real-time analog clock.
 - A mission timeline with progress, ETA, cost, artifacts, and operational stages.
@@ -163,6 +164,20 @@ index.html?autoplay=ledger
 
 This preloads a complete artifact lineage, opens the inspector, draws handoff packets across the room, and stops on the visible `APPROVAL REQUIRED` policy state.
 
+### Live Agent Comms
+
+Key mission handoffs now publish a visible inter-agent message:
+
+- Helm routes the research scope to Scout;
+- Scout transfers the verified research pack to Forge;
+- Forge sends the evidence bundle to Archive;
+- Archive opens a lineage channel to Sentinel;
+- Sentinel forwards the signed audit receipt to Relay.
+
+The Operations Floor draws the active channel directly between both bots, moves encrypted packets along the route, and keeps the three latest messages in the `LIVE AGENT COMMS` panel.
+
+Open `index.html?autoplay=comms` for an instant three-channel showcase.
+
 Suggested production event format:
 
 ```json
@@ -188,7 +203,7 @@ Consequential operations should always be represented as approval requests and m
 ├── grokbot-adapter.js  Mock transport, commands, heartbeat, persistence
 ├── mission-ledger.js   Hash chain, artifact versions, lineage, policies
 ├── styles.css          Base layout and component styles
-├── theme-muted.css     Grok Bot Company theme and responsive rules
+├── theme-muted.css     Grok Bot $Architecture theme and responsive rules
 ├── preview.png         Current interface preview
 └── README.md           Product and operating documentation
 ```
